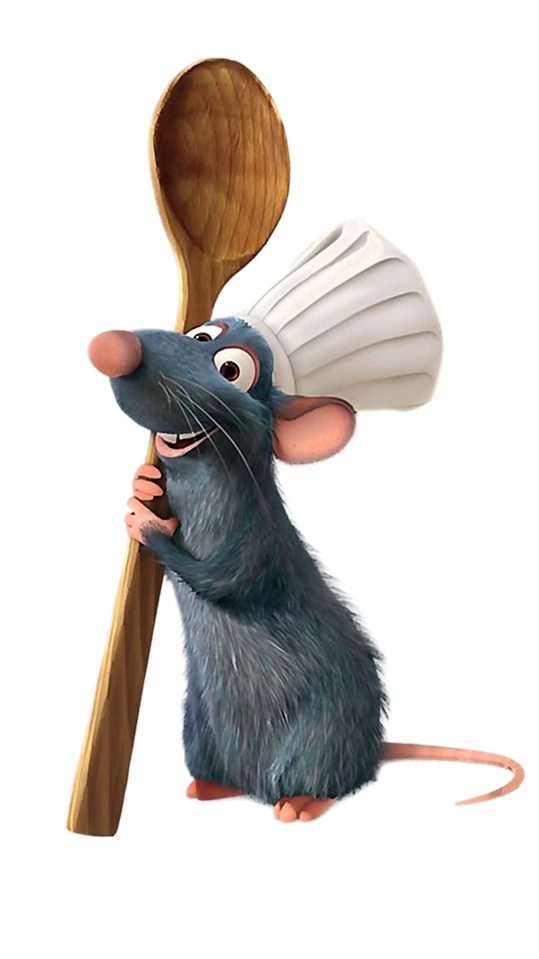
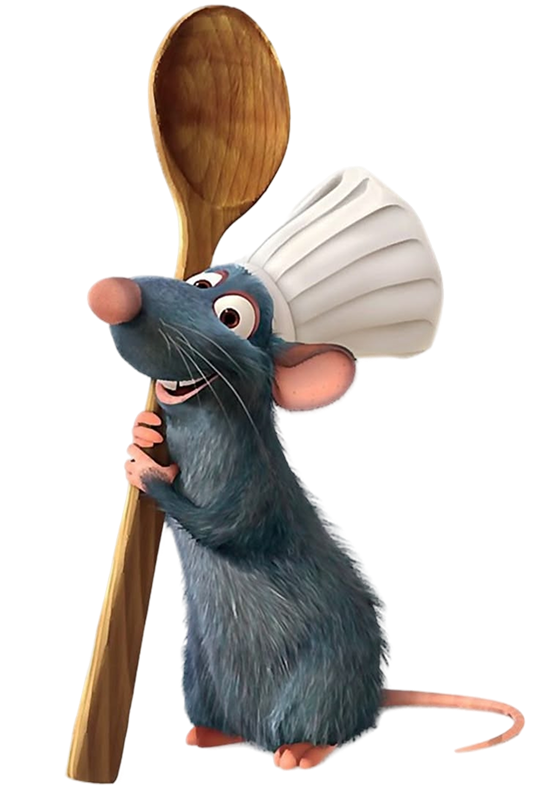
image remy.png modified

Changed region(s): [[0.1187, 0.0, 0.9796, 1.0]]

diff --git a/LePetitChef/src/components/Hero/Hero.tsx b/LePetitChef/src/components/Hero/Hero.tsx
@@ -232,7 +232,7 @@ const Hero = ({ usuario, setUsuario, abrirAuthModal }: HeroProps) => {
           <img
             src="/img/remy.png"
             alt="Rémy"
-            className="w-50 sm:w-72 md:w-100 lg:w-120"
+            className="w-50 sm:w-72 md:w-100 lg:w-135"
           />
         </div>
           
